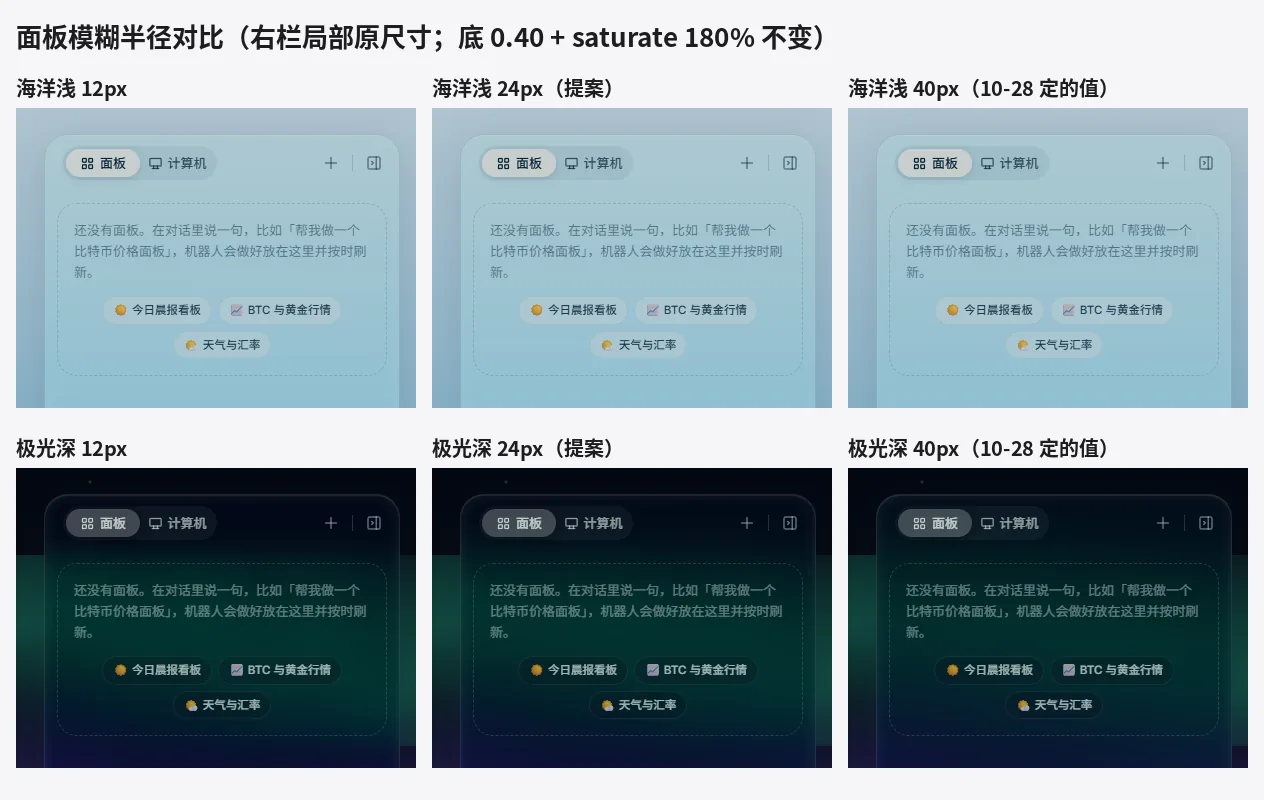
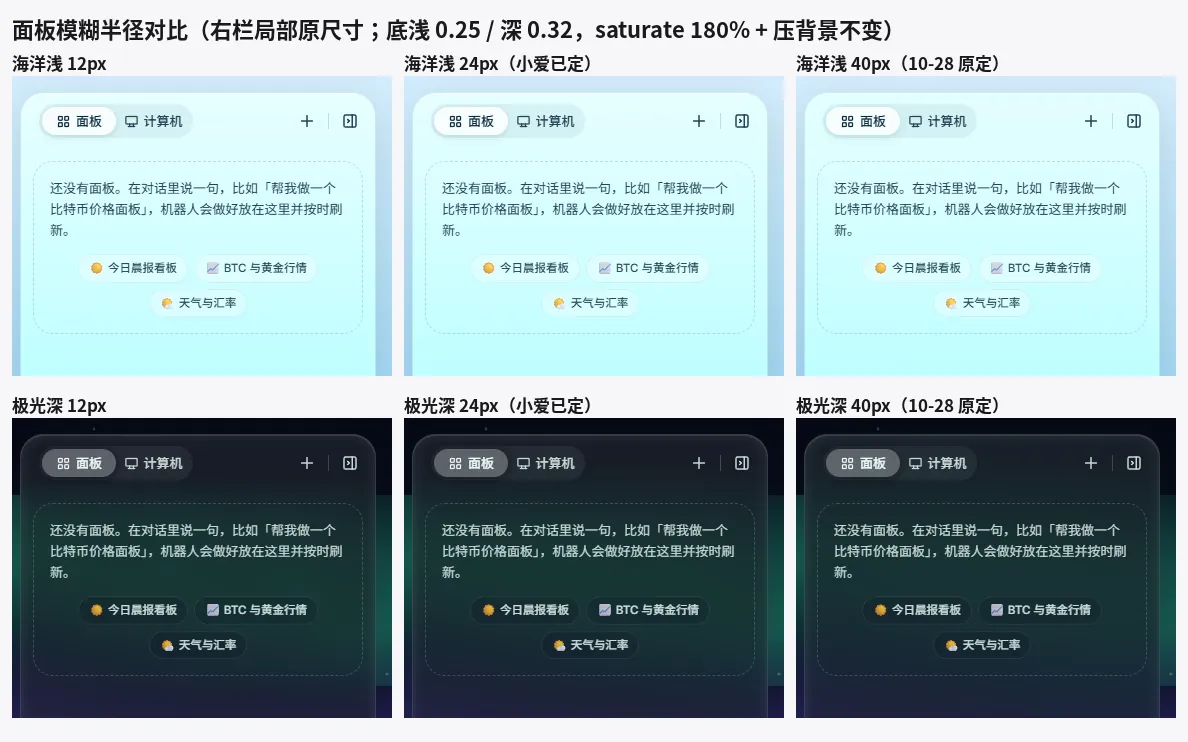
docs: theme proposal rework - reshot images, see-through comparison, tid references, decided items

diff --git a/docs/design-system.md b/docs/design-system.md
@@ -3,11 +3,15 @@
 **状态：方向已通过，细节待小爱批准**（2026-10-29 第二版）。这份文档只写方案，代码一行没改。代码等 #376 合并后再做。
 
 **第二版改了什么**（第一版审阅后）：
-- 小爱已经定了的：模糊半径用 **24px**；手机端的红点放在抽屉按钮上；PC 端右上角是「窗口按钮放最右，头像紧挨在它们左边」（后两条见 RFC）。
+- 小爱已经定了的三件事：
+  - 大面板模糊半径用 **24px**（§3）；
+  - 手机端的红点放在顶栏左边的抽屉按钮上（RFC「下一步」③）；
+  - DESIGN.md §36.1 改成「窗口按钮在最右，头像紧挨在它们左边」（RFC「下一步」④，DESIGN.md §36.1 已改）。
 - 面板底色的不透明度降下来：浅色从 0.40 降到 **0.25**，深色从 0.40 降到 **0.32**。原因是 Jun 说「拉到最低也基本不透光」，第一版效果图里的面板还是偏奶白。
 - 主文字和次级文字在最不利的壁纸区域实测，都达到 WCAG AA（§3.1）。
 - 后续代码 PR 的顺序改了（§10）：第一个 PR 做主题数据和切换，第二个 PR 削减 backdrop-filter。
-- 效果图重拍了，新增一张对比图：同一块侧栏放在樱花和极光壁纸上（§11）。
+- 效果图按第二版参数重拍了，新增一张侧栏透光对比图（§11）。**这张图说明压背景会让面板变白（浅色）或变灰（深色），透光反而不如只降底色，需要小爱权衡**，见 §11。
+- 加了 tid 参考图各自的用途（§11 末尾）。
 
 - 这里只写**主题系统**：有哪些主题、颜色、玻璃参数、设置页布局、令牌命名。
 - 通用的组件、间距、圆角规范在 [`DESIGN.md`](../DESIGN.md)，这里不重复。本提案改到的地方：§10「令牌」，以及 §10.5「Hark 令牌与同名旧令牌」的规则（这一节由 #374 加入）。
@@ -225,14 +229,14 @@ box-shadow: inset 0 1px 0 rgba(255 255 255 / 0.5),      /* 高光边 */
   - 高光边和内阴影只在边缘 1–12px，管不到文字所在的中间区域。
   - 饱和度试过 120% / 140% / 180%，最差值只差 0.1–0.3，帮不上忙。
 - **所以在同一个 `backdrop-filter` 里加了「压背景」**：`contrast(0.65)` 把背后壁纸的明暗差收窄，再用 `brightness` 整体提亮（浅色）或压暗（深色）。
-  - 底色仍然是 0.25 / 0.32，壁纸的颜色和形状照样透得过来（见 §11 的侧栏对比图）。
+  - 底色仍然是 0.25 / 0.32，但压背景本身会把背后的壁纸洗白（浅色）或压灰（深色），**透光看上去不如只降底色**，见 §11 的侧栏对比图。
   - 这一步不是 Hark 的写法，**请小爱确认**。如果不接受，就只能靠加厚底色来达标。可是第一版的 0.40 也只有 3.63:1（sky 深），要比 0.40 还厚，又回到了「偏奶白」。
 - **次文字原来的「主文字 50% 透明」在透明面板上不可能达标**：它会透出背后的壁纸。即使压了背景，透明度也要 ≥ 0.81 才达标，所以改成了不透明的颜色（§2 颜色表）。
 - **自定义壁纸没法事先测**：实现时在用户上传壁纸以后，按侧栏、输入框的位置取样一次。不达标就把这张壁纸下的 `--glass-bg` 透明度往上提，直到达标为止，最多提到 0.40。这一条放进 §10 的第一个 PR。
 
 ### 模糊半径：24px（小爱已定）
 
-10-28 批准的是 `blur(40px)`。这次的要求是「透得过去，能清楚看出壁纸的颜色和形状」。原型分别用 12、24、40px 截了图（`images/theme-proposal/4-blur-radius.webp`）：
+10-28 批准的是 `blur(40px)`。这次的要求是「透得过去，能清楚看出壁纸的颜色和形状」。原型按第二版参数（底浅 0.25 / 深 0.32，加压背景），只改模糊半径，分别用 12、24、40px 截了右栏局部（海洋浅色、极光深色，`images/theme-proposal/4-blur-radius.webp`）：
 - **40px**：浪线和极光带都糊成了一片颜色，看不出形状。
 - **12px**：形状最清楚，但文字后面的壁纸细节会干扰阅读。
 - **24px**：介于两者之间，而且在 Hark 自己的模糊刻度上。
@@ -468,12 +472,15 @@ box-shadow: inset 0 1px 0 rgba(255 255 255 / 0.5),      /* 高光边 */
 
 **怎么做的**：
 - 用同一个页面：桌面聊天页，有左栏、气泡、输入框，开着「个人资料」弹窗，1440×900。
-- 原型是在截图时往页面里注入 CSS，再在 localStorage 里设一张自定义壁纸，**没有提交进仓库**。原型文件在 `/workspace/theme/proto/`（`gen.py`、`proto.css`、`themes.json`）。
+- 原型是在截图时往页面里注入 CSS，再在 localStorage 里设一张自定义壁纸，**没有提交进仓库**。第二版的原型 CSS 和主题数据在 Ayase 的 `C:\Users\48818\hark-redesign-shots\theme\proto2\v2\`（`proto.css`、`themes.json`），截图脚本是同目录上两级的 `harness\theme-shot.mjs`。
 
 **放在哪**：
-- 原图在 `/workspace/hark-redesign/shots/theme-proposal/`。
-- 拼好的对比图在 `docs/images/theme-proposal/`，就是下面这几张。第二版全部重拍：面板底是浅 0.25 / 深 0.32，加了压背景。
-- 第一版的图（面板底 0.40）没有删，见 git 历史。
+- 拼好的图在 `docs/images/theme-proposal/`，就是下面这 5 张，整个目录约 380KB。2、3、4 换成了第二版的图，5 是新增的，1 没变。第一版的图已经替换掉，要看可以查 git 历史。
+- 原图（PNG）不进仓库：
+  - 第二版整页：box `/workspace/theme/r3/raw/v2/`，Ayase `hark-redesign-shots\theme\shots2\v2\`；
+  - 第一版整页：box `/workspace/theme/r3/raw/v1/`，Ayase `hark-redesign-shots\theme\shots2\v1\`；
+  - 模糊半径和「不压背景」：box `/workspace/theme/r3/raw/blur/`、`/workspace/theme/r3/raw/nopress/`，Ayase `hark-redesign-shots\theme\shots3\`；
+  - 拼图脚本：box `/workspace/theme/r3/mk.py`。
 
 ![现在：旧主题](images/theme-proposal/1-old.webp)
 
@@ -481,8 +488,23 @@ box-shadow: inset 0 1px 0 rgba(255 255 255 / 0.5),      /* 高光边 */
 
 ![提案：6 套主题的另一个模式](images/theme-proposal/3-new-alt.webp)
 
-**侧栏透光对比**：同一块侧栏放在对比强烈的壁纸上（樱花浅色、极光深色），左边是第一版的 0.40，右边是第二版的 0.25 / 0.32 加压背景。第二版能看清侧栏背后的花枝、花瓣和极光带的形状。
+**侧栏透光对比**：右栏局部原尺寸，同一块侧栏放在对比强烈的壁纸上（樱花浅色、极光深色），从左到右三列：第一版（底 0.40）、只降底色（0.25 / 0.32，不压背景）、第二版（0.25 / 0.32 加压背景）。
 
 ![侧栏透光对比](images/theme-proposal/5-sidebar-see-through.webp)
 
+照实说，这张图的结果和「降底色就更透」的预期不一样：
+- **透光最好的是中间一列**（只降底色）：樱花的粉色和花簇、极光带的绿色都比第一版明显。但它的主文字最差只有 3.01:1，过不了 AA（§3.1）。
+- **第二版（右列）反而最不透**：浅色几乎是一块白板，花簇只剩边缘一点粉色；深色整块偏灰，极光带的绿色淡了很多。原因是压背景里的 `brightness(1.35)` / `brightness(0.7)` 把整块背景往白或往暗推了，效果和加厚底色差不多。
+- 所以「透光」和「AA」在目前的写法里是此消彼长的。**请小爱选**：
+  1. 接受第二版：AA 全过，但面板看上去仍偏白 / 偏灰；
+  2. 用中间一列：透光最好，但深色壁纸的亮处（月亮、太阳）文字过不了 AA；
+  3. 折中：把压背景调轻（比如 `contrast(0.8)`、亮度 1.15 / 0.85），只在过不了 AA 的地方补。**这一条还没有实测**，选了再测。
+
 ![模糊半径对比](images/theme-proposal/4-blur-radius.webp)
+
+### 参考图（tid）
+
+Jun 给的 tid 截图在 `/workspace/feedback/tid/`，**不提交进仓库**。下面几张各有用处。用之前都要先换成我们自己的令牌（`--glass-*`、`--text-*`、`--accent`、圆角 24px），不照搬它们的颜色、字号和间距：
+- **输入框 → 06、04**：06 是压在深色内容上的胶囊输入框，04 是浅色卡片底部的胶囊按钮组，两张都是真玻璃（背后的内容透得过来，边缘有一圈高光），照这个做输入框的质感。
+- **底部面板 → 08**：从底部升起的大圆角面板，背后的照片糊开但颜色还在，按钮是同一种玻璃的胶囊，照这个做手机端和小窗的底部面板。
+- **空状态和加载 → 05**：同一个搜索框的默认、空、无结果、搜索中、有结果几种状态排在一起，照这个把面板库、搜索这些地方的空状态和加载状态补齐。

diff --git a/docs/DEVLOG.md b/docs/DEVLOG.md
@@ -335,8 +335,9 @@
 **依赖**：代码 PR 等 #376（`efa5abe9`）合并后，再从 main 拉分支，顺序见 design-system.md §10。天空小修排在这个 PR 之后。
 
 **第二版（小爱审阅后）**：方向已通过，细节仍待小爱批准。
-- 已定：模糊半径 24px；手机端红点放在抽屉按钮上；§36.1 窗口按钮放最右，头像在它左边。DESIGN.md 正文等账号卡 PR 再改（main 现在还没有头像，和 #374 不冲突）。
+- 已定：模糊半径 24px；手机端红点放在抽屉按钮上；§36.1 窗口按钮放最右，头像在它左边。DESIGN.md §36.1 已改；「顶栏」那一节等账号卡 PR 再改（main 现在还没有头像，和 #374 不冲突）。
 - 面板底色透明度从 0.40 降到浅色 0.25、深色 0.32。只降透明度时，最差的文字对比只有 3.01，过不了 AA。所以在同一条 backdrop-filter 里加了压背景：浅色 `contrast(0.65) brightness(1.35)`，深色 `brightness(0.7)`。次要文字改成不透明混色（浅色 88%，深色 85%）。
 - AA 实测：12 张主题壁纸上铺满面板，取每块面板最差的 8×8 区域。主要文字最差 6.38，次要文字最差 4.69（sky 深色，月亮处），都过 AA。各主题的数字见 design-system.md §3.1。
 - 效果图重拍了。新增 `5-sidebar-see-through.webp`：侧栏放在樱花和极光壁纸上，对比 0.40 和第二版。
 - 代码 PR 顺序改为：① 主题数据和切换，同时删掉旧色板、玻璃材质和雾度滑块；② 砍 backdrop-filter；③ 存储；④ 账号卡。都等 #376 合并后再开。
+- 返修（同日）：效果图按第二版参数重拍，2、3、4 替换，新增 5（三列：0.40 / 只降底色 / 第二版），图片目录约 380KB；透光对比发现压背景会把面板洗白 / 压灰，透光不如只降底色，已在 design-system.md §11 照实写明并请小爱取舍；另加了 tid 参考图的用途（06、04 输入框，08 底部面板，05 空状态和加载）。

diff --git a/docs/rfc/hark-redesign.md b/docs/rfc/hark-redesign.md
@@ -124,8 +124,8 @@
   - #374 已经在顶栏上写了 `data-winctrls="3|4"`，用来算右边距。
   - **小爱已定（第一版审阅）**：窗口按钮放最右，头像紧挨在它们左边。
   - DESIGN.md 原来写的是「右上角只放窗口按钮」：§36.1，以及「顶栏」那一节（main 上 L512「顶栏右上角只放窗口按钮」，L772「右上角只放窗口按钮的规则不变」）。这几处都要改成新规则。
-  - 现在先**只写在这份提案里**，DESIGN.md 正文暂时不改。原因是 main 的顶栏上现在还没有头像，现在改正文，正文就和代码对不上了。
-  - 这几行 #374 没有动过，以后改不会和 #374 冲突。等去掉账号卡的代码 PR 落地时，在同一个 PR 里一起改 DESIGN.md。
+  - DESIGN.md §36.1 这次已经改成「窗口按钮在最右，头像紧挨在它们左边」，并注明头像随账号卡 PR 上线。
+  - 「顶栏」那一节（L512）写的是现在的顶栏，main 上还没有头像，先不改，等去掉账号卡的代码 PR 落地时在同一个 PR 里改。这几行 #374 没有动过，不会和 #374 冲突。
 - **小窗模式**（§36，420×860）和所有宽度小于 768 的窗口：
   - 侧栏是 #378 的抽屉，规则和手机一样，账号在抽屉底部，红点在抽屉按钮上。
   - 顶栏头像不显示，窗口按钮按 §36.2 收窄到 36px。
@@ -149,5 +149,5 @@
 
 ### 其他
 
-- 主题系统重做（6 套主题、玻璃只留 4 类地方、设置页卡顿）见 [`docs/design-system.md`](../design-system.md)。上表第 8 项「删除旧的 `!important` 玻璃层」并进那边的后续 PR 3。
+- 主题系统重做（6 套主题、玻璃只留 4 类地方、设置页卡顿）见 [`docs/design-system.md`](../design-system.md)。上表第 8 项「删除旧的 `!important` 玻璃层」并进那边的后续 PR 1（主题数据和切换，同时删掉旧的）。
 - 天空小修在这个 PR 之后做。
